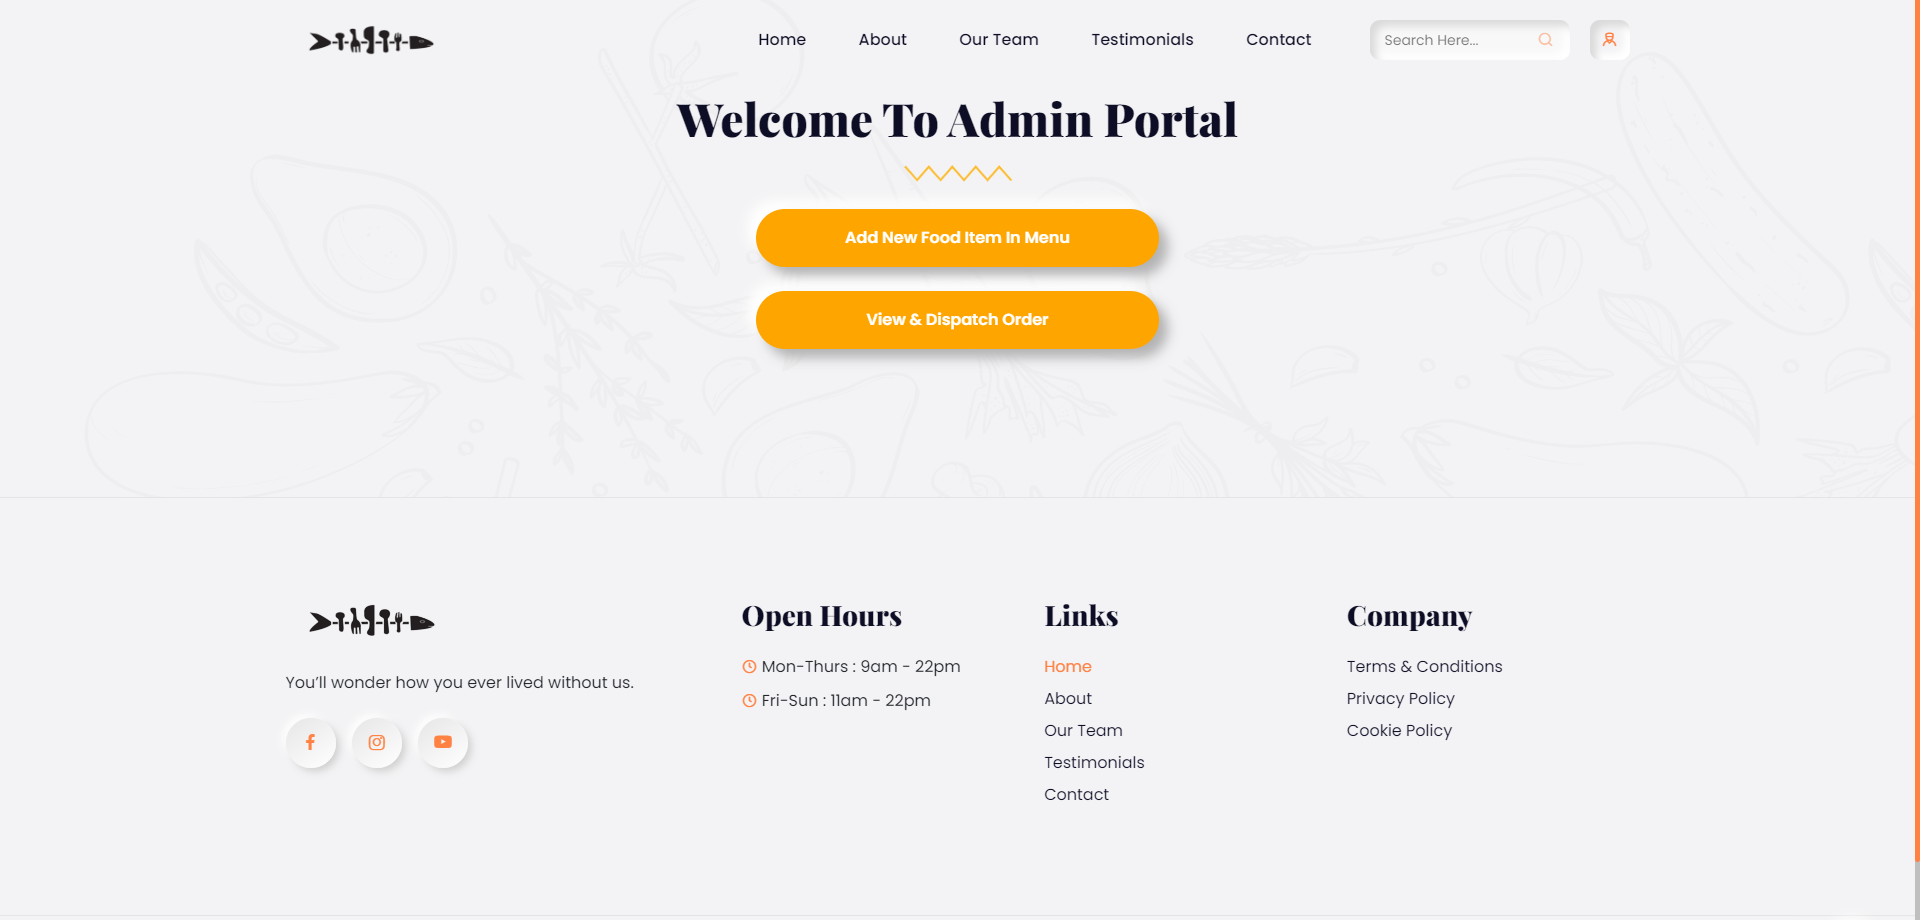
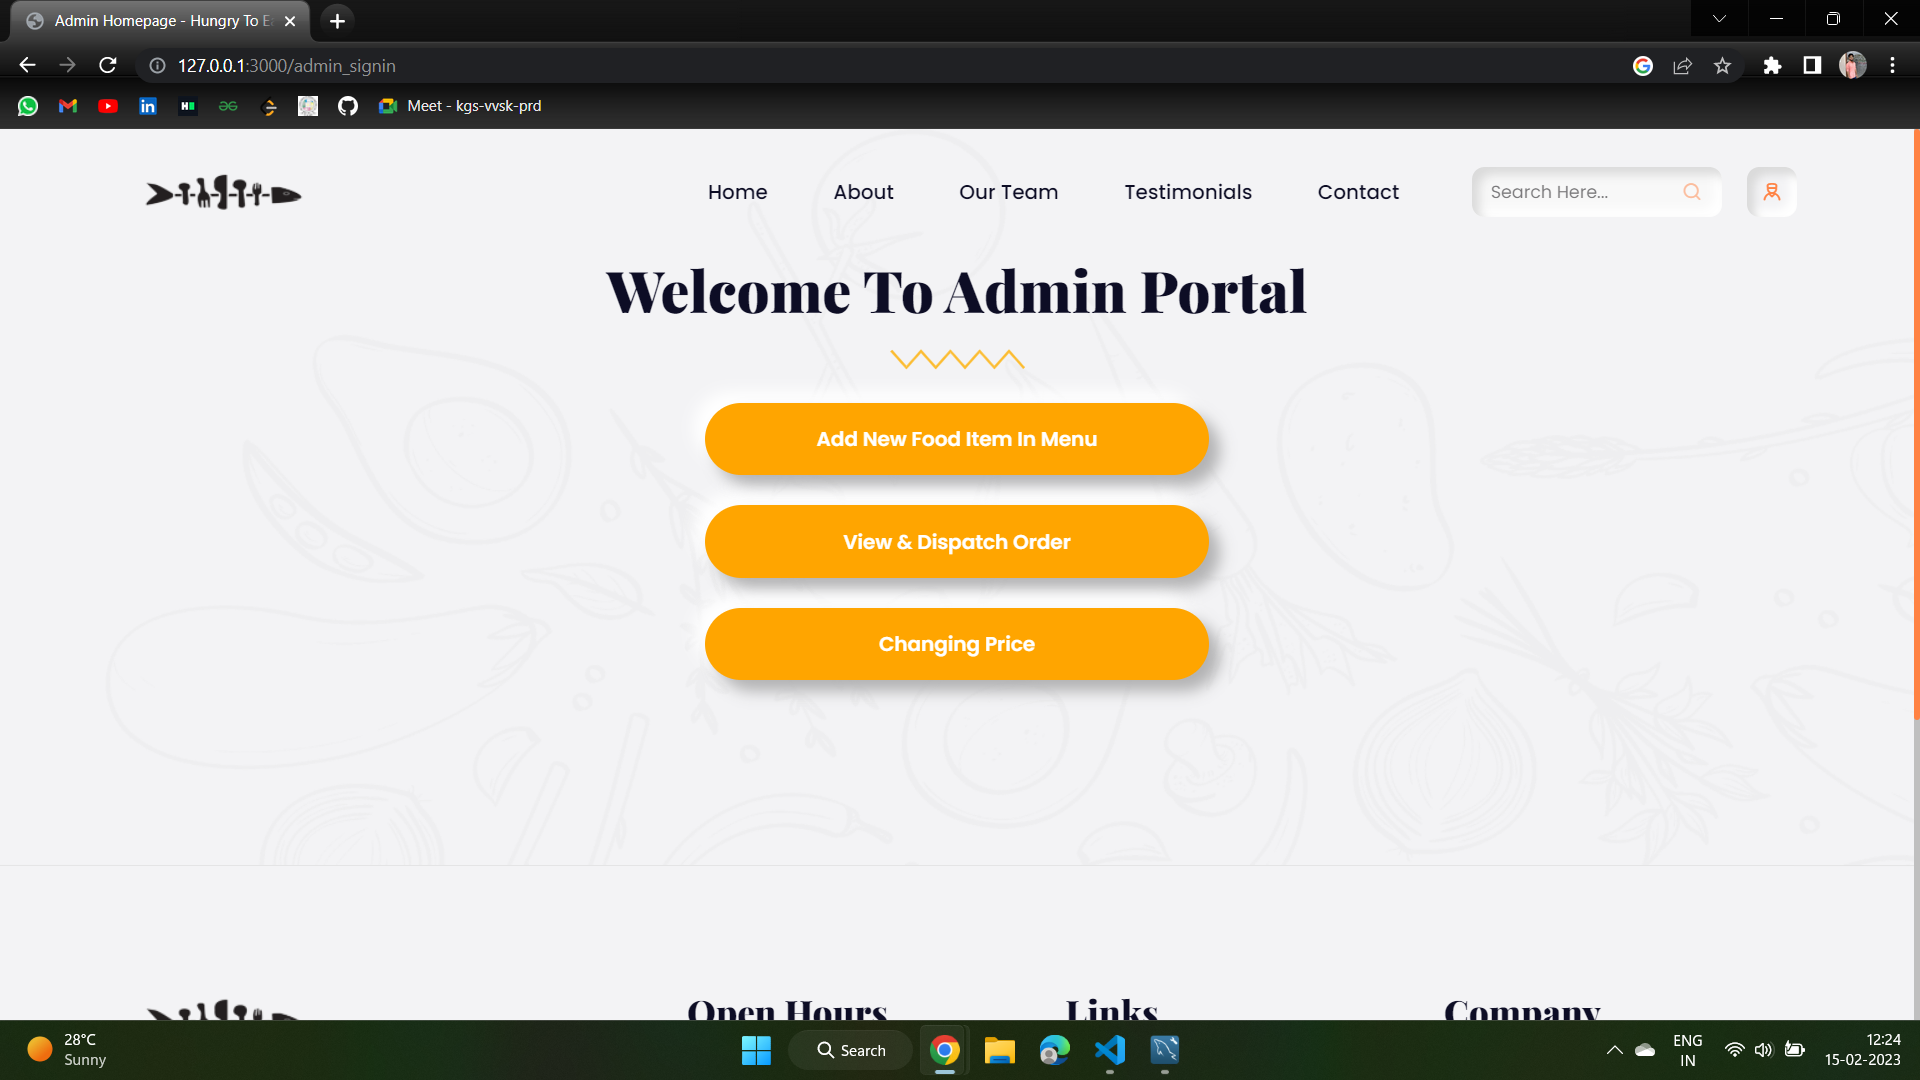
Version 1.2

diff --git a/public/stylesheets/style.css b/public/stylesheets/style.css
@@ -268,19 +268,6 @@ button {
     box-shadow: inset 6px 6px 8px #dadada, inset -6px -6px 8px #ffffff;
 } 
 
-.dropmenu option:hover {
-    width: 100%;
-    height: 50px;
-    outline: none !important;
-    padding: 10px 15px;
-    color: #0d0d25;
-    -webkit-appearance: none;
-    border-radius: 10px;
-    border: none;
-    background: #ff8243;
-    box-shadow: inset 6px 6px 8px #dadada, inset -6px -6px 8px #ffffff;
-} 
-
 .form-input-radio {
     outline: none !important;
 }

diff --git a/README.md b/README.md
@@ -8,6 +8,7 @@ As the name says it all, it a simple full stack project which is used for orderi
 - At user-end he/she can change their basic contact details and as well as there password. 
 - At admins-end he/she can perform two task : 
     - Add new food to the food menu.
+    - Change the price of cuisine as per inflation rate.
     - View and dispatch order of the customers.
 - Admin can also verify the working of the website from his own end.
 - Use cookies for login into the account.
@@ -48,4 +49,5 @@ Here are some of the screenshot of Food Ordering Website.
 11. Admin Sign In Page : <br><br> <img src="screenshot/Admin Login Page.png"><br><br>
 12. Admin Welcome Page :<br><br> <img src="screenshot/Admin Welcome Page.png"><br><br>
 13. Admin Adding Food Page :<br><br> <img src="screenshot/Admin Adding Food Page.png"><br><br>
+14. Changing Price of Cuisine :<br><br> <img src="screenshot/Changing Price of Cuisine.png"><br><br>
 14. Admin Order View & Dispatching Page :<br><br> <img src="screenshot/Admin Viewing and Dispatching Order Page.png"><br><br>
